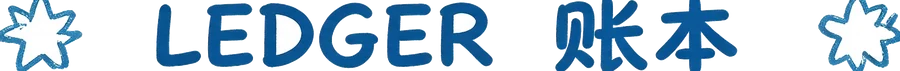
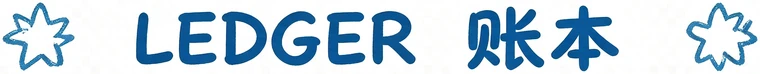
Stop cutting out artwork that was never hollow
The frame is a whole card: a cream centre inside watercolour edges. The
flood fill leaked through a pale stretch of the top border and ate that
centre, which is why it came out as an empty outline that then needed a
gradient poured back into it. It is used as drawn now, watermark removed
and cropped to the picture.

Titles keep their white background too and let multiply blending drop
it, which leaves no fringe because nothing was keyed out.

diff --git a/skins/orange/index.html b/skins/orange/index.html
@@ -19,7 +19,7 @@
   /* 背景图：等比裁剪填满，横图放到竖屏上会裁掉左右两边 */
   #bg{
     position:absolute;inset:0;z-index:-2;
-    background:url('./assets/bg.webp?v=36') center center / cover no-repeat;
+    background:url('./assets/bg.webp?v=37') center center / cover no-repeat;
   }
   /* 底部压一层淡雾，让白色的路和信封不至于糊在水面的碎光里 */
   #haze{
@@ -51,9 +51,11 @@
     text-shadow:0 2px 8px rgba(30,60,110,.28);
     margin-bottom:16px;
   }
+  /* 标题不抠图。白底交给正片叠底混掉 —— 白色乘上去等于不改，
+     深色的字和星星留下来。比按颜色去底干净，也没有毛边。 */
   .panel-title{
-    display:block;width:min(68vw,290px);height:auto;
-    filter:drop-shadow(0 2px 8px rgba(30,60,110,.22));
+    display:block;width:min(70vw,300px);height:auto;
+    mix-blend-mode:multiply;
   }
   .panel h2 .en{font-size:12px;letter-spacing:3.5px;opacity:.8}
   .panel .hand{font-family:var(--hand);font-size:16px;color:#a8c8db;
@@ -353,23 +355,16 @@
   /* 列表外面不再套框，框下放到每一条上 */
   .dt-frame{margin-bottom:8px}
   .dt-list{display:flex;flex-direction:column;gap:10px}
-  /* 每一条就是一整张底框，不切。
-     图是 900x290，卡片按同样的比例长，所以铺满几乎不变形 ——
-     之前切成九宫格是为了让框跟着内容长高，代价是把水彩带和星星扯歪。 */
+  /* 每一条就是那张卡片本身。图是不透明的，中间本来就有奶白的芯，
+     不用再补填充。四角圆一下，把图外面那点白边裁掉。 */
   .dt-card{
     font-family:var(--round);
     display:flex;align-items:center;gap:10px;
-    width:100%;aspect-ratio:900/290;text-align:left;
-    border:0;
-    /* 两层：上面是框，下面自己填中间。
-       填充用几团椭圆渐变，往四边淡到全透明，接上水彩带的边，
-       中间不能是一块实心色 —— 那样一眼就看出是拿颜色补的。 */
-    background:
-      url('./assets/pack/frame.webp?v=36') center/100% 100% no-repeat,
-      radial-gradient(ellipse 62% 46% at 38% 40%, rgba(255,255,255,.72), rgba(255,255,255,0) 72%),
-      radial-gradient(ellipse 58% 44% at 72% 62%, rgba(226,244,253,.66), rgba(226,244,253,0) 74%),
-      radial-gradient(ellipse 78% 62% at 50% 50%, rgba(198,232,248,.62), rgba(198,232,248,0) 76%);
-    padding:0 7% 0 9%;cursor:pointer;
+    width:100%;aspect-ratio:1000/322;text-align:left;
+    border:0;border-radius:20px;overflow:hidden;
+    background:url('./assets/pack/frame.webp?v=37') center/100% 100% no-repeat;
+    padding:0 8%;cursor:pointer;
+    box-shadow:0 6px 16px rgba(40,90,140,.18);
   }
   .dt-card.now{filter:brightness(1.06) saturate(1.1)}
   .dt-main{flex:1;min-width:0;display:flex;flex-direction:column;gap:3px}
@@ -527,7 +522,7 @@
      不用动图 WebP —— iOS 上它时灵时不灵，这个到处都能播。 */
   #angSprite{
     width:100%;aspect-ratio:1/1;
-    background-image:url('./assets/ride_sheet.webp?v=36');
+    background-image:url('./assets/ride_sheet.webp?v=37');
     background-repeat:no-repeat;
     background-size:500% 100%;
     /* jump-none 才会取到 0/25/50/75/100 这五个位置。
@@ -585,7 +580,7 @@
 
   <div id="deco"></div>
 
-  <img id="title" src="./assets/title.webp?v=36" alt="直到大地变成一颗酸橙">
+  <img id="title" src="./assets/title.webp?v=37" alt="直到大地变成一颗酸橙">
 
 
   <div id="ang"><div id="angFlip"><div id="angSprite" role="img" aria-label="安洁莉娜"></div></div></div>
@@ -604,18 +599,18 @@
 
 /* 存储走 dock 那一层，跟别的应用同一套。
    现在是本地实现，以后换成接口版，这里一行都不用改。 */
-import { LocalStore } from '../../core/storage.js?v=36';
+import { LocalStore } from '../../core/storage.js?v=37';
 const store = new LocalStore();
 
 /* 有 config.local.js 就用它，没有就用公开那份。
    缺哪个字段就补哪个，不用整份照抄。 */
-import baseConfig from './config.js?v=36';
-import { mountCalendar } from './calendar.js?v=36';
-import { mountDates } from './dates.js?v=36';
-import { mountDeco } from './deco.js?v=36';
+import baseConfig from './config.js?v=37';
+import { mountCalendar } from './calendar.js?v=37';
+import { mountDates } from './dates.js?v=37';
+import { mountDeco } from './deco.js?v=37';
 let CFG = baseConfig;
 try {
-  const local = (await import('./config.local.js?v=36')).default;
+  const local = (await import('./config.local.js?v=37')).default;
   CFG = { ...baseConfig, ...local };
 } catch { /* 没有本地配置，用公开版 */ }
 
@@ -834,7 +829,7 @@ CFG.panels.forEach((p, i) => {
   if (!h) return;
   /* 有标题图就用图，没有就退回文字 */
   h.innerHTML = p.img
-    ? `<img class="panel-title" src="./assets/pack/${p.img}.webp?v=36" alt="${p.name}">`
+    ? `<img class="panel-title" src="./assets/pack/${p.img}.webp?v=37" alt="${p.name}">`
     : `<span>${p.name}</span>`;
 });
 
